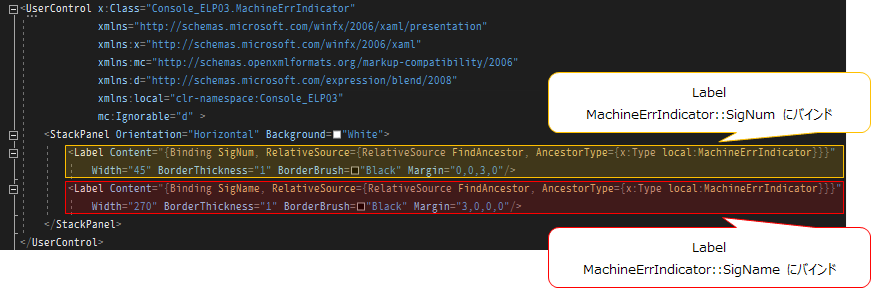
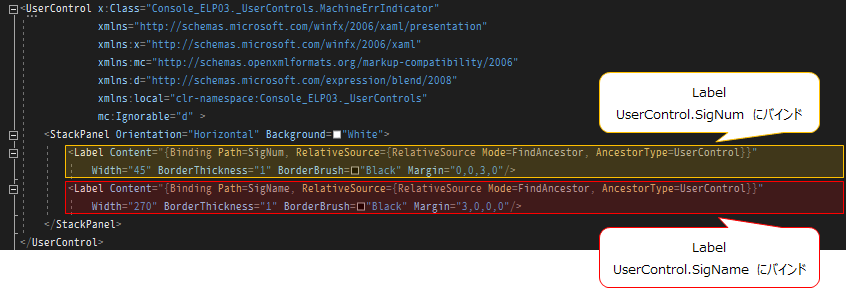
テキトゥーンチョップ

diff --git a/index.html b/index.html
@@ -158,30 +158,33 @@ body
 <a href="TIPS/Microsoft PowerPoint/図形の結合.html">図形の結合</a><br>
 <a href="TIPS/Microsoft PowerPoint/図形同士をスナップ(スマートガイド).html">図形同士をスナップ(スマートガイド)</a><br>
 
-<h3>Microsoft Visual Studio・.Net</h3>
-<a href="TIPS/Microsoft Visual Studio・.Net/[.Net]DateTime と TimeSpan.html">[.Net]DateTime と TimeSpan</a><br>
-<a href="TIPS/Microsoft Visual Studio・.Net/[Visual C%23]UI(コントロール)とデリゲート.html">[Visual C#]UI(コントロール)とデリゲート</a><br>
-<a href="TIPS/Microsoft Visual Studio・.Net/[Visual C%23]アプリケーションを常に管理者権限で実行(マニフェスト).html">[Visual C#]アプリケーションを常に管理者権限で実行(マニフェスト)</a><br>
-<a href="TIPS/Microsoft Visual Studio・.Net/[Visual C++]CRTを用いたメモリリーク検出.html">[Visual C++]CRTを用いたメモリリーク検出</a><br>
-<a href="TIPS/Microsoft Visual Studio・.Net/[Visual C++]基本的なDLLの作成手順.html">[Visual C++]基本的なDLLの作成手順</a><br>
-<a href="TIPS/Microsoft Visual Studio・.Net/[Visual Studio]イベントセンダ.html">[Visual Studio]イベントセンダ</a><br>
-<a href="TIPS/Microsoft Visual Studio・.Net/[Visual Studio]グラフィックス.html">[Visual Studio]グラフィックス</a><br>
-<a href="TIPS/Microsoft Visual Studio・.Net/[Visual Studio]ショートカットキーの割り当て(キーアサイン).html">[Visual Studio]ショートカットキーの割り当て(キーアサイン)</a><br>
-<a href="TIPS/Microsoft Visual Studio・.Net/[Visual Studio]スニペット.html">[Visual Studio]スニペット</a><br>
-<a href="TIPS/Microsoft Visual Studio・.Net/[Visual Studio]データバインディング.html">[Visual Studio]データバインディング</a><br>
-<a href="TIPS/Microsoft Visual Studio・.Net/[Visual Studio]フォームとDialogResult.html">[Visual Studio]フォームとDialogResult</a><br>
-<a href="TIPS/Microsoft Visual Studio・.Net/[Visual Studio]フォームとコンソールを同時表示する.html">[Visual Studio]フォームとコンソールを同時表示する</a><br>
-<a href="TIPS/Microsoft Visual Studio・.Net/[Visual Studio]フォームの外見を制御.html">[Visual Studio]フォームの外見を制御</a><br>
-<a href="TIPS/Microsoft Visual Studio・.Net/[Visual Studio]プロジェクト間でのソースファイル共用(リンクとして追加).html">[Visual Studio]プロジェクト間でのソースファイル共用(リンクとして追加)</a><br>
-<a href="TIPS/Microsoft Visual Studio・.Net/[Visual Studio]日付・時刻入力(DateTimePicker).html">[Visual Studio]日付・時刻入力(DateTimePicker)</a><br>
-<a href="TIPS/Microsoft Visual Studio・.Net/[Win32]DLLのエントリポイント.html">[Win32]DLLのエントリポイント</a><br>
-<a href="TIPS/Microsoft Visual Studio・.Net/[WPF]DockPanelとStackPanel.html">[WPF]DockPanelとStackPanel</a><br>
-<a href="TIPS/Microsoft Visual Studio・.Net/[WPF]PDFを表示する.html">[WPF]PDFを表示する</a><br>
-<a href="TIPS/Microsoft Visual Studio・.Net/[WPF]RelativeSource.html">[WPF]RelativeSource</a><br>
-<a href="TIPS/Microsoft Visual Studio・.Net/[WPF]カスタムコントロール.html">[WPF]カスタムコントロール</a><br>
-<a href="TIPS/Microsoft Visual Studio・.Net/[WPF]スプラッシュスクリーン.html">[WPF]スプラッシュスクリーン</a><br>
-<a href="TIPS/Microsoft Visual Studio・.Net/[WPF]データバインディング.html">[WPF]データバインディング</a><br>
-<a href="TIPS/Microsoft Visual Studio・.Net/[WPF]ユーザーコントロール.html">[WPF]ユーザーコントロール</a><br>
+<h3>Microsoft Visual Studio・.NET</h3>
+<a href="TIPS/Microsoft Visual Studio・.NET/[.NET]DateTime と TimeSpan.html">[.NET]DateTime と TimeSpan</a><br>
+<a href="TIPS/Microsoft Visual Studio・.NET/[.NET]キーイベント.html">[.NET]キーイベント</a><br>
+<a href="TIPS/Microsoft Visual Studio・.NET/[Visual C%23]UI(コントロール)とデリゲート.html">[Visual C#]UI(コントロール)とデリゲート</a><br>
+<a href="TIPS/Microsoft Visual Studio・.NET/[Visual C%23]アプリケーションを常に管理者権限で実行(マニフェスト).html">[Visual C#]アプリケーションを常に管理者権限で実行(マニフェスト)</a><br>
+<a href="TIPS/Microsoft Visual Studio・.NET/[Visual C++]CRTを用いたメモリリーク検出.html">[Visual C++]CRTを用いたメモリリーク検出</a><br>
+<a href="TIPS/Microsoft Visual Studio・.NET/[Visual C++]基本的なDLLの作成手順.html">[Visual C++]基本的なDLLの作成手順</a><br>
+<a href="TIPS/Microsoft Visual Studio・.NET/[Visual Studio]イベントセンダ.html">[Visual Studio]イベントセンダ</a><br>
+<a href="TIPS/Microsoft Visual Studio・.NET/[Visual Studio]グラフィックス.html">[Visual Studio]グラフィックス</a><br>
+<a href="TIPS/Microsoft Visual Studio・.NET/[Visual Studio]ショートカットキーの割り当て(キーアサイン).html">[Visual Studio]ショートカットキーの割り当て(キーアサイン)</a><br>
+<a href="TIPS/Microsoft Visual Studio・.NET/[Visual Studio]スニペット.html">[Visual Studio]スニペット</a><br>
+<a href="TIPS/Microsoft Visual Studio・.NET/[Visual Studio]データバインディング.html">[Visual Studio]データバインディング</a><br>
+<a href="TIPS/Microsoft Visual Studio・.NET/[Visual Studio]フォームとDialogResult.html">[Visual Studio]フォームとDialogResult</a><br>
+<a href="TIPS/Microsoft Visual Studio・.NET/[Visual Studio]フォームとコンソールを同時表示する.html">[Visual Studio]フォームとコンソールを同時表示する</a><br>
+<a href="TIPS/Microsoft Visual Studio・.NET/[Visual Studio]フォームの外見を制御.html">[Visual Studio]フォームの外見を制御</a><br>
+<a href="TIPS/Microsoft Visual Studio・.NET/[Visual Studio]プロジェクト間でのソースファイル共用(リンクとして追加).html">[Visual Studio]プロジェクト間でのソースファイル共用(リンクとして追加)</a><br>
+<a href="TIPS/Microsoft Visual Studio・.NET/[Visual Studio]日付・時刻入力(DateTimePicker).html">[Visual Studio]日付・時刻入力(DateTimePicker)</a><br>
+<a href="TIPS/Microsoft Visual Studio・.NET/[Win32]DLLのエントリポイント.html">[Win32]DLLのエントリポイント</a><br>
+<a href="TIPS/Microsoft Visual Studio・.NET/[WPF]DockPanelとStackPanel.html">[WPF]DockPanelとStackPanel</a><br>
+<a href="TIPS/Microsoft Visual Studio・.NET/[WPF]PDFを表示する.html">[WPF]PDFを表示する</a><br>
+<a href="TIPS/Microsoft Visual Studio・.NET/[WPF]RelativeSource.html">[WPF]RelativeSource</a><br>
+<a href="TIPS/Microsoft Visual Studio・.NET/[WPF]UIイベントにおける注意点 - 捕捉できない操作.html">[WPF]UIイベントにおける注意点 - 捕捉できない操作</a><br>
+<a href="TIPS/Microsoft Visual Studio・.NET/[WPF]カスタムコントロール.html">[WPF]カスタムコントロール</a><br>
+<a href="TIPS/Microsoft Visual Studio・.NET/[WPF]スプラッシュスクリーン.html">[WPF]スプラッシュスクリーン</a><br>
+<a href="TIPS/Microsoft Visual Studio・.NET/[WPF]データバインディング.html">[WPF]データバインディング</a><br>
+<a href="TIPS/Microsoft Visual Studio・.NET/[WPF]ユーザーコントロール.html">[WPF]ユーザーコントロール</a><br>
+<a href="TIPS/Microsoft Visual Studio・.NET/[WPF]ルーティングイベント.html">[WPF]ルーティングイベント</a><br>
 
 <h3>Microsoft Word</h3>
 <a href="TIPS/Microsoft Word/[スタイル]スタイルの新規作成.html">[スタイル]スタイルの新規作成</a><br>

diff --git a/TIPS/Microsoft Visual Studio・.Net/[WPF]UIイベントにおける注意点 - 捕捉できない操作.html b/TIPS/Microsoft Visual Studio・.Net/[WPF]UIイベントにおける注意点 - 捕捉できない操作.html
@@ -1,0 +1,139 @@
+<!DOCTYPE html>
+
+<html lang="ja">
+<!-- --------------------------------------
+head
+--------------------------------------- -->
+<head>
+<meta content="text/html" charset="utf-8" http-equiv="Content-Type" />
+
+<!-- 基準URI -->
+<base href="file:///G:/共有ドライブ/098-all-employees/tips/HTML_TIPS/">
+
+<!-- スタイルシート -->
+<link rel="stylesheet" href="_Assets/CSS/Sytle001.css" type="text/css">
+
+<!-- スクリプト -->
+<!-- タイトル表示 -->
+<script src="_Assets/MakeTitle.js" type="text/javascript"></script>
+<!-- 目次表示 -->
+<script src="_Assets/MakeToc_L.js" type="text/javascript"></script>
+
+
+
+</head>
+
+<!-- --------------------------------------
+body
+--------------------------------------- -->
+<body>
+<!-- ページタイトル(ページ内表示) -->
+<span id="title"></span>
+
+<!-- 出典・関連ページ -->
+<h5>関連 :</h5>
+<a href="TIPS/Microsoft Visual Studio・.Net/[WPF]ルーティングイベント.html">[WPF]ルーティングイベント</a><br>
+<a href="TIPS/Microsoft Visual Studio・.Net/[.NET]キーイベント.html">[.NET]キーイベント</a><br>
+
+<!-- 目次 -->
+<h5>目次 :</h5>
+<div id="toc"></div>
+
+<hr>
+
+<!-- 本文ここから -->
+
+<h2>WPFにおけるユーザ操作の受付</h2>
+WPFアプリケーションにおいてマウスやキーボードなどの操作を捕捉しようとしても、対象となるコントロール( = イベントセンダ)や押下したキーによっては<br>
+本来発生するはずのイベント( MouseDown 、KeyDown など)が発生しない。<br>
+その場合は、対となる Preview イベントを捕捉することで代用が可能である。<br>
+
+<h2>Preview イベントとは</h2>
+ユーザ操作によって発生するイベントのうち、本イベントに先だって発生するもの。<br>
+例えばマウスボタンを押下した場合、本イベントの MouseDown イベントの前に PreviewMouseDown イベントが発生する。<br>
+これらは<a href="TIPS/Microsoft Visual Studio・.Net/[WPF]ルーティングイベント.html">ルーティングイベント</a>として連携されており、Preview イベントにてイベント引数を「処理済み」<br>
+( EventArgs.Handled = true )<br>
+とすることで、後続の本イベントの発生を抑制することができる。
+
+<h2>Preview イベントの例</h2>
+Preview イベントの一部を下表に記す。
+<table>
+    <tr class="row1">
+        <td class="col1">ユーザ操作</td>
+        <td>Preview イベント</td>
+        <td>対となる本イベント</td>
+    </tr>
+    <tr>
+        <td class="col1">キー押下</td>
+        <td>PreviewKeyDown</td>
+        <td>KeyDown</td>
+    </tr>
+    <tr>
+        <td class="col1">キー戻り</td>
+        <td>PreviewKeyUp</td>
+        <td>KeyUp</td>
+    </tr>
+    <tr>
+        <td class="col1">キーボードフォーカス取得</td>
+        <td>PreviewGotKeyboardFocus</td>
+        <td>GotKeyboardFocus</td>
+    </tr>
+    <tr>
+        <td class="col1">キーボードフォーカス喪失</td>
+        <td>PreviewLostKeyboardFocus</td>
+        <td>LostKeyboardFocus</td>
+    </tr>
+    <tr>
+        <td class="col1">マウスダブルクリック</td>
+        <td>PreviewMouseDoubleClick</td>
+        <td>MouseDoubleClick</td>
+    </tr>
+    <tr>
+        <td class="col1">マウスボタン押下</td>
+        <td>PreviewMouseDown</td>
+        <td>MouseDown</td>
+    </tr>
+    <tr>
+        <td class="col1">マウスボタン戻り</td>
+        <td>PreviewMouseUp</td>
+        <td>MouseUp</td>
+    </tr>
+    <tr>
+        <td class="col1">マウス左ボタン押下</td>
+        <td>PreviewMouseLeftButtonDown</td>
+        <td>MouseLeftButtonDown</td>
+    </tr>
+    <tr>
+        <td class="col1">マウス左ボタン戻り</td>
+        <td>PreviewMouseLeftButtonUp</td>
+        <td>MouseLeftButtonUp</td>
+    </tr>
+    <tr>
+        <td class="col1">マウス右ボタン押下</td>
+        <td>PreviewMouseRightButtonDown</td>
+        <td>MouseRightButtonDown</td>
+    </tr>
+    <tr>
+        <td class="col1">マウス右ボタン戻り</td>
+        <td>PreviewMouseRightButtonUp</td>
+        <td>MouseRightButtonUp</td>
+    </tr>
+    <tr>
+        <td class="col1">マウスホイール操作</td>
+        <td>PreviewMouseWheel</td>
+        <td>MouseWheel</td>
+    </tr>
+    <tr>
+        <td class="col1">マウス移動</td>
+        <td>PreviewMouseMove</td>
+        <td>MouseMove</td>
+    </tr>
+    <tr>
+        <td class="col1">文字入力</td>
+        <td>PreviewTextInput</td>
+        <td>TextInput</td>
+    </tr>
+</table>
+
+</body>
+</html>

diff --git a/TIPS/Microsoft Visual Studio・.Net/[.NET]キーイベント.html b/TIPS/Microsoft Visual Studio・.Net/[.NET]キーイベント.html
@@ -33,8 +33,11 @@ body
 <!-- 出典・関連ページ -->
 <h5>出典 :</h5>
 <a href="https://dobon.net/vb/dotnet/control/btndetectarraykey.html">コントロールで矢印、Tab、Enter、Escキーが押されたことを知る - .NET Tips (VB.NET,C#...) | dobon.net</a><br>
+<a href="http://cyberboy6.blog.fc2.com/blog-entry-364.html">[WPF] KeyDownイベントとPreviewKeyDownイベントの違い - ブログ「サイバー少年」</a>
 
 <h5>関連 :</h5>
+<a href="TIPS/Microsoft Visual Studio・.NET/[WPF]ルーティングイベント.html">[WPF]ルーティングイベント</a><br>
+<a href="TIPS/Microsoft Visual Studio・.NET/[WPF]UIイベントにおける注意点 - 捕捉できない操作.html">[WPF]UIイベントにおける注意点 - 捕捉できない操作</a>
 
 <!-- 目次 -->
 <h5>目次 :</h5>
@@ -51,14 +54,14 @@ body
 
 <h2>PreviewKeyDown の使い方</h2>
 PreviewKeyDown イベントは KeyDown イベントの前に発生し、KeyDown で捕捉できないキーも捕捉できる。<br>
-また、PreviewKeyDown ハンドラ中で、プロパティ PreviewKeyDownEventArgs.IsInputKey を true にすることで<br>
+また、WinFormの場合、PreviewKeyDown ハンドラ中でプロパティ PreviewKeyDownEventArgs.IsInputKey を true にすることで<br>
 (本来発生しない) KeyDown 、KeyUp イベントが発生するようになる。<br>
-但しこの場合、そのキー本来の機能(矢印、Tabであればフォーカスの移動)は失われる。
+但しこの場合、そのキー本来の機能(矢印、Tabであればフォーカスの移動)は失われる。<br>
 
 <h3>コード例(C# / WinForm)</h3>
 <div class="code">
 <cmt>// PreviewKeyDown イベントハンドラ</cmt>
-<kwd>private void</kwd> Button1_PreviewKeyDown(<kwd>object</kwd> sender, PreviewKeyDownEventArgs e)
+<kwd>private void</kwd> Button1_PreviewKeyDown(<kwd>object</kwd> sender, <knw>PreviewKeyDownEventArgs</knw> e)
 {
     <kwd>switch</kwd> (e.KeyCode)
     {
@@ -75,6 +78,31 @@ PreviewKeyDown イベントは KeyDown イベントの前に発生し、KeyDown 
             <cmt>// IsInputKey = true により、KeyDown 、KeyUp が発生するようになる</cmt>
             <cmt>// (フォーカスは移動しない)</cmt>
             e.IsInputKey = <kwd>true</kwd>;
+            <kwd>break</kwd>;
+    }
+}
+</div>
+
+<h3>コード例(C# / WPF)</h3>
+<div class="code">
+<cmt>// PreviewKeyDown イベントハンドラ</cmt>
+<kwd>private void</kwd> Button1_PreviewKeyDown(<kwd>object</kwd> sender, <knw>KeyEventArgs</knw> e)
+{
+    <kwd>switch</kwd> (e.Key)
+    {
+        <cmt>// 矢印キー</cmt>
+        <kwd>case</kwd> Key.Up:
+        <kwd>case</kwd> Key.Left:
+        <kwd>case</kwd> Key.Right:
+        <kwd>case</kwd> Key.Down:
+            <knw>Console</knw>.WriteLine("矢印キーが押されました。");
+            <kwd>break</kwd>;
+
+        <cmt>// Tabキー</cmt>
+        <kwd>case</kwd> Key.Tab:
+            <cmt>// イベントを処理済み(Handled)とする</cmt>
+            <cmt>// ⇒ 下流のイベントは発生しなくなる</cmt>
+            e.Handled = <kwd>true</kwd>;
             <kwd>break</kwd>;
     }
 }

diff --git a/TIPS/Microsoft Visual Studio・.Net/[WPF]ルーティングイベント.html b/TIPS/Microsoft Visual Studio・.Net/[WPF]ルーティングイベント.html
@@ -1,0 +1,56 @@
+<!DOCTYPE html>
+
+<html lang="ja">
+<!-- --------------------------------------
+head
+--------------------------------------- -->
+<head>
+<meta content="text/html" charset="utf-8" http-equiv="Content-Type" />
+
+<!-- 基準URI -->
+<base href="file:///G:/共有ドライブ/098-all-employees/tips/HTML_TIPS/">
+
+<!-- スタイルシート -->
+<link rel="stylesheet" href="_Assets/CSS/Sytle001.css" type="text/css">
+
+<!-- スクリプト -->
+<!-- タイトル表示 -->
+<script src="_Assets/MakeTitle.js" type="text/javascript"></script>
+<!-- 目次表示 -->
+<script src="_Assets/MakeToc_L.js" type="text/javascript"></script>
+
+
+
+</head>
+
+<!-- --------------------------------------
+body
+--------------------------------------- -->
+<body>
+<!-- ページタイトル(ページ内表示) -->
+<span id="title"></span>
+
+<!-- 出典・関連ページ -->
+<h5>出典 :</h5>
+<a href="https://blog.okazuki.jp/entry/2014/08/22/211021">WPF4.5入門 その46 「WPFのイベントシステム」 - かずきのBlog@hatena</a><br>
+
+<h5>関連 :</h5>
+<a href="TIPS/Microsoft Visual Studio・.Net/[.NET]キーイベント.html">[.NET]キーイベント</a><br>
+
+<!-- 目次 -->
+<h5>目次 :</h5>
+<div id="toc"></div>
+
+<hr>
+
+<!-- 本文ここから -->
+
+※この記事は書きかけです。
+
+<h2>WPFのイベントシステム</h2>
+WPFにおいては、コントロールの階層構造における親(外側の)要素から子(内側の)要素、およびその逆方向のイベント伝播が発生する。<br>
+これにより、発生元のコントロールに限らず、親コントロールでもイベントを捕捉することができる。<br>
+<img src="_Img/MSVS_DotNet_CSharp/WPF_RootingEvent/01.png"><br>
+
+</body>
+</html>

diff --git a/TIPS/Microsoft Visual Studio・.Net/[WPF]RelativeSource.html b/TIPS/Microsoft Visual Studio・.Net/[WPF]RelativeSource.html
@@ -35,7 +35,7 @@ body
 <a href="https://qiita.com/tera1707/items/73cda312b7cd9c4df40d">【WPF】RelativeSource(バインディング)の使い方メモ - Qiita</a><br>
 
 <h5>関連 :</h5>
-<a href="TIPS/Microsoft Visual Studio・.Net/[WPF]依存関係プロパティ (DependencyProperty).html">[WPF]依存関係プロパティ (DependencyProperty)</a><br>
+<a href="TIPS/Microsoft Visual Studio・.Net/[WPF]データバインディング.html">[WPF]データバインディング</a><br>
 <a href="TIPS/Microsoft Visual Studio・.Net/[WPF]ユーザーコントロール.html">[WPF]ユーザーコントロール</a><br>
 
 <!-- 目次 -->

diff --git a/TIPS/Microsoft Visual Studio・.Net/[WPF]ユーザーコントロール.html b/TIPS/Microsoft Visual Studio・.Net/[WPF]ユーザーコントロール.html
@@ -83,6 +83,7 @@ XAMLの記述(データバインディング)に関しては、
             </li>
             <li>
                 XAML<br>
+                ここで、"Path=" と "Mode=FindAncestor" は省略可能。<br>
                 <img src="_Img/MSVS_DotNet_CSharp/WPF_UserControl/02.png">
 
             </li>
